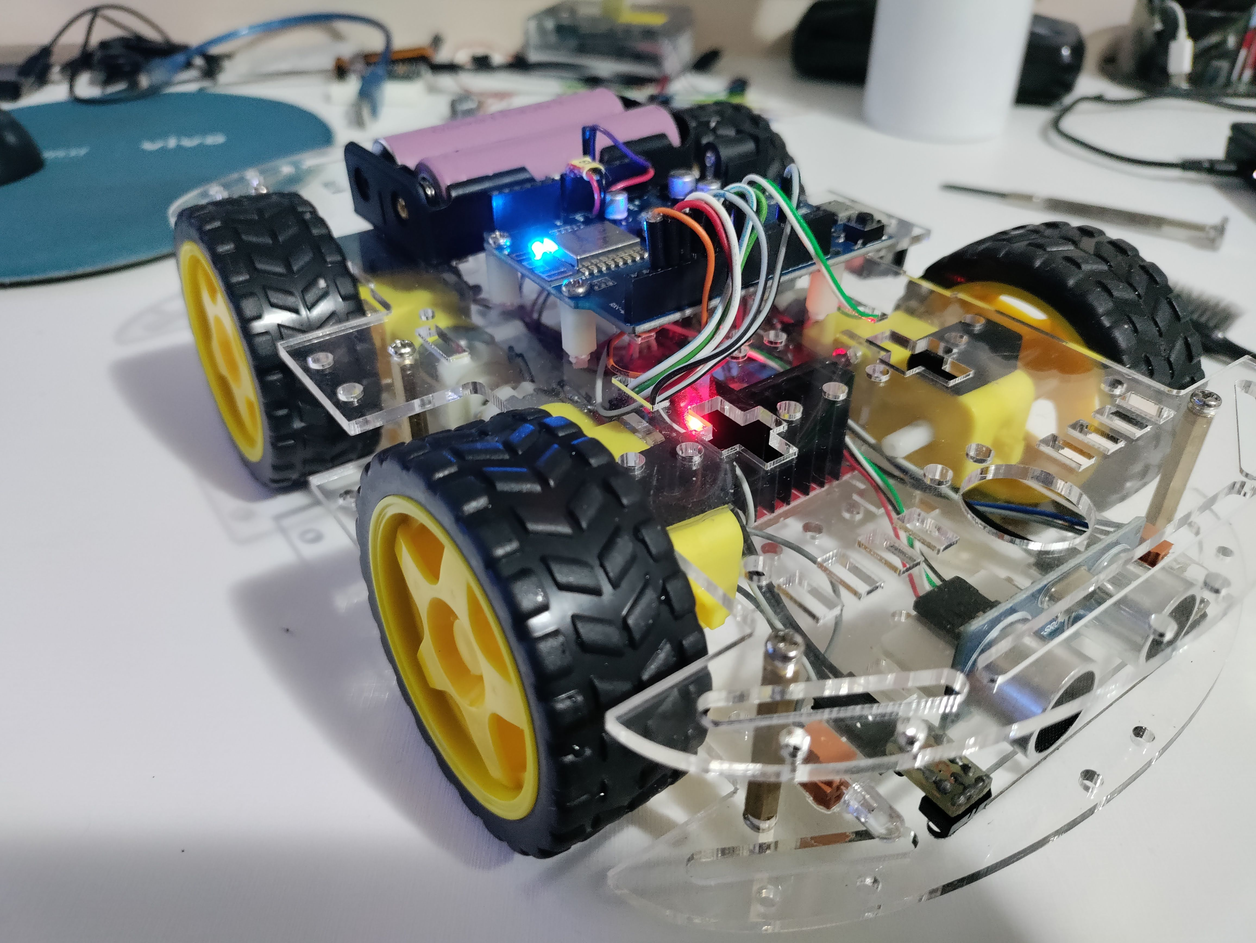
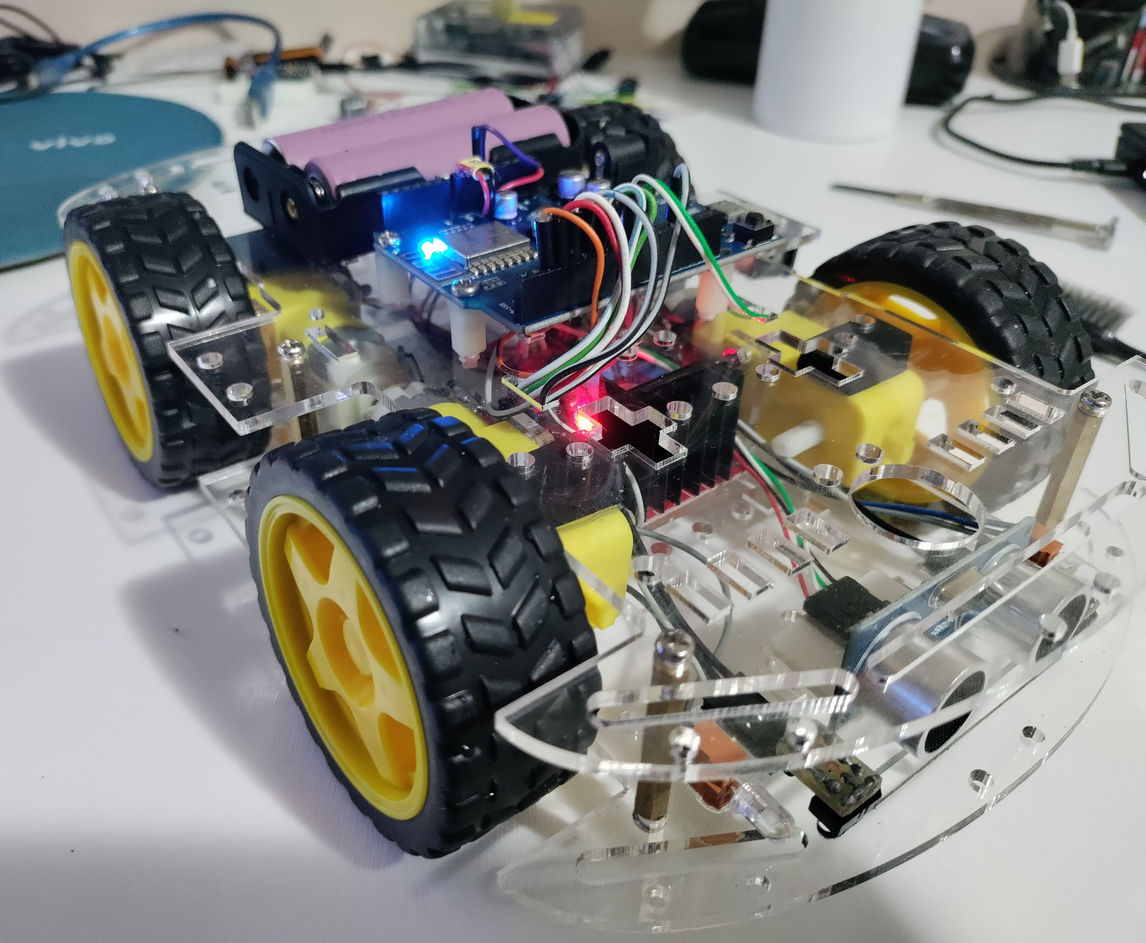
commit

diff --git a/README.md b/README.md
@@ -4,5 +4,8 @@
     Usando a biblioteca Drive na versão 1.0.0 na pasta: Drive.zip
     Aurelio Monteiro Avanzi
     04/03/2023
+    
+    <img src="https://raw.githubusercontent.com/cyberwisk/RobotoGuido/main/IMG_RobotoGuido.jpg" width="300">
 
+    Esquema Eletrico:
     <img src="https://raw.githubusercontent.com/cyberwisk/RobotoGuido/main/Robotoguido_esquema.png" width="300">
